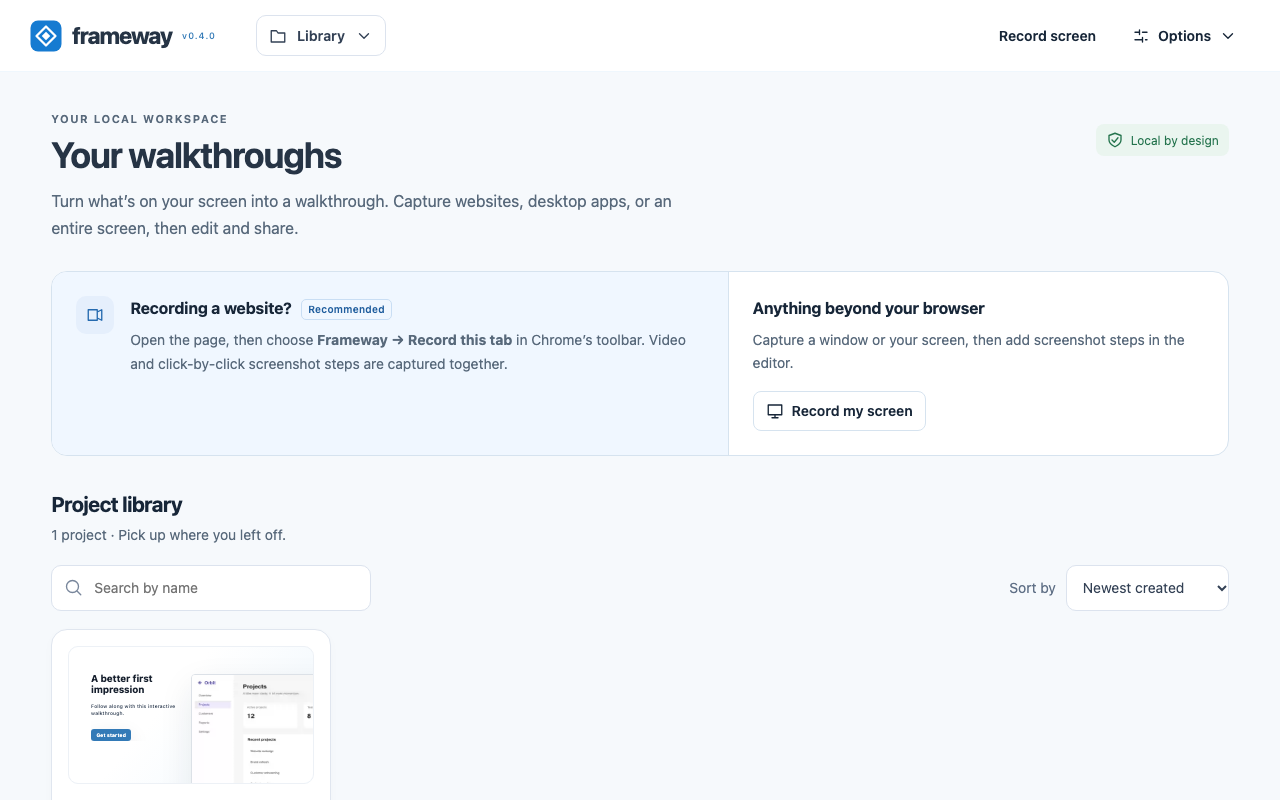
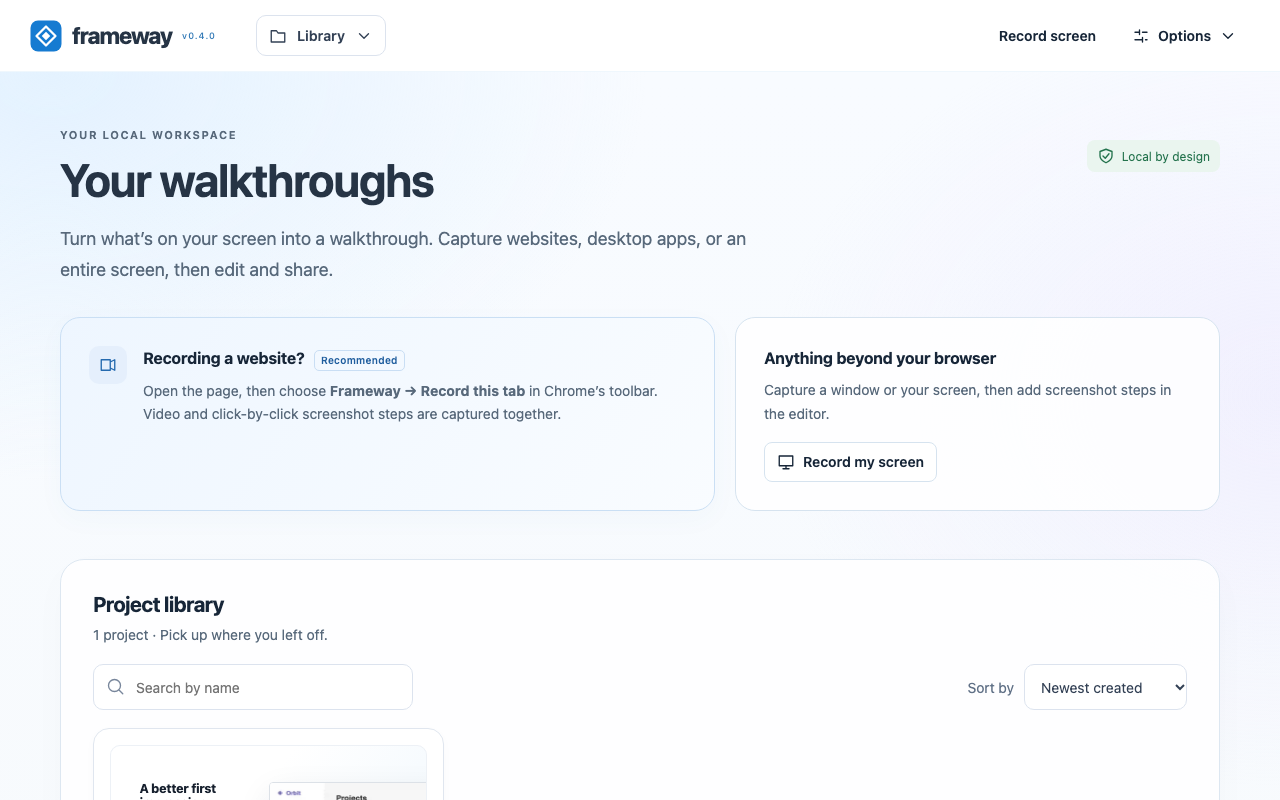
style: polish Library spacing and slide insertion controls

diff --git a/src/styles/home.css b/src/styles/home.css
@@ -190,13 +190,16 @@
 }
 
 .home-page {
-  padding: 40px clamp(18px, 4vw, 64px) 48px;
-  background: var(--ui-surface-muted);
+  padding: 56px clamp(18px, 4vw, 64px) 72px;
+  background:
+    radial-gradient(ellipse 700px 480px at 4% 0%, #dbeeffb3, transparent 85%),
+    radial-gradient(ellipse 600px 460px at 100% 14%, #e8e2ff70, transparent 85%),
+    linear-gradient(180deg, #f8fbff, #f7fafc 55%, #fff);
   text-align: left;
   color: var(--ui-text);
 }
 .home-page > * {
-  max-width: 1200px;
+  max-width: 1160px;
   margin-inline: auto;
 }
 .home-heading {
@@ -204,7 +207,7 @@
   align-items: flex-start;
   justify-content: space-between;
   gap: 24px;
-  margin-bottom: 28px;
+  margin-bottom: 32px;
 }
 .home-heading .eyebrow {
   font-size: 11px;
@@ -212,15 +215,15 @@
   color: var(--ui-muted);
 }
 .home-heading h1 {
-  font-size: clamp(28px, 3vw, 36px);
+  font-size: clamp(32px, 4vw, 46px);
   line-height: 1.2;
   letter-spacing: -1px;
-  margin: 8px 0 12px;
+  margin: 12px 0 16px;
 }
 .home-heading p {
-  max-width: 660px;
+  max-width: 720px;
   color: var(--ui-muted);
-  font-size: 16px;
+  font-size: 18px;
   line-height: 1.7;
   margin: 0;
 }
@@ -239,21 +242,23 @@
 .capture-choices {
   display: grid;
   grid-template-columns: 1.35fr 1fr;
-  border: 1px solid var(--ui-border);
-  border-radius: 16px;
-  background: var(--ui-surface);
-  overflow: hidden;
-  margin-bottom: 36px;
+  gap: 20px;
+  margin-bottom: 48px;
 }
 .capture-recommended {
   display: flex;
   gap: 16px;
-  padding: 24px;
-  background: #f0f7ff;
+  padding: 28px;
+  border: 1px solid #cadff4;
+  border-radius: 20px;
+  background: linear-gradient(125deg, #eef6ff, #f9fcff);
+  box-shadow: 0 8px 28px #3674a908;
 }
 .capture-screen {
-  padding: 24px;
-  border-left: 1px solid var(--ui-border);
+  padding: 28px;
+  border: 1px solid var(--ui-border);
+  border-radius: 20px;
+  background: #ffffffd9;
 }
 .capture-choices h2 {
   font-size: 16px;
@@ -344,8 +349,15 @@
   max-width: 600px;
   font-size: 15px;
 }
+.home-workspace {
+  padding: 32px;
+  border: 1px solid #dde7f1;
+  border-radius: 24px;
+  background: #ffffffd9;
+  box-shadow: 0 12px 40px #25354a05;
+}
 .home-start {
-  margin-top: 48px;
+  margin-top: 64px;
 }
 .quick-guide {
   padding: 0;
@@ -392,8 +404,8 @@
   margin: 0 0 12px;
 }
 .home-sharing {
-  margin-top: 32px;
-  padding-top: 32px;
+  margin-top: 56px;
+  padding-top: 48px;
   border-top: 1px solid var(--ui-border);
 }
 .sharing-grid {
@@ -438,7 +450,7 @@
   color: var(--ui-success);
 }
 .home-page .use-cases {
-  margin-top: 40px;
+  margin-top: 56px;
   padding: 0;
   text-align: left;
 }
@@ -453,9 +465,10 @@
   gap: 28px;
 }
 .home-page .use-case-grid article {
-  border: 0;
-  padding: 0;
-  background: transparent;
+  border: 1px solid #e3eaf3;
+  border-radius: 16px;
+  padding: 24px;
+  background: #f8fbff;
 }
 .home-page .use-case-grid article > svg {
   color: #337ab7;
@@ -523,9 +536,16 @@
   .home-page .use-case-grid {
     grid-template-columns: 1fr;
   }
-  .capture-screen {
-    border-left: 0;
-    border-top: 1px solid var(--ui-border);
+  .home-workspace {
+    padding: 20px 16px;
+    border-radius: 18px;
+  }
+  .home-start {
+    margin-top: 40px;
+  }
+  .home-sharing,
+  .home-page .use-cases {
+    margin-top: 40px;
   }
   .capture-recommended,
   .capture-screen {
@@ -557,5 +577,29 @@
 @media (prefers-reduced-motion: reduce) {
   .home-page .project-library-item {
     transition: none;
+  }
+}
+
+@keyframes home-arrive {
+  from {
+    opacity: 0;
+    transform: translateY(8px);
+  }
+  to {
+    opacity: 1;
+    transform: translateY(0);
+  }
+}
+@media (prefers-reduced-motion: no-preference) {
+  .home-heading,
+  .capture-choices,
+  .home-workspace {
+    animation: home-arrive 420ms ease-out both;
+  }
+  .capture-choices {
+    animation-delay: 60ms;
+  }
+  .home-workspace {
+    animation-delay: 100ms;
   }
 }

diff --git a/src/main.tsx b/src/main.tsx
@@ -906,6 +906,11 @@ function App() {
                   YOUR STORY <span>{project.steps.length}</span>
                 </div>
                 <div className="step-list">
+                  {!project.steps.some((s) => s.kind === 'title') && (
+                    <Button className="slide-add" onClick={() => void addTitle()} disabled={!!busy}>
+                      <Icon name="plus" /> Add title slide
+                    </Button>
+                  )}
                   {project.steps.map((s, i) => (
                     <div className="step-row" key={s.id}>
                       <button
@@ -947,14 +952,9 @@ function App() {
                     </div>
                   ))}
                 </div>
-                {!project.steps.some((s) => s.kind === 'title') && (
-                  <button className="sample-link" onClick={() => void addTitle()} disabled={!!busy}>
-                    ＋ Add title slide
-                  </button>
-                )}
                 {!project.steps.some((s) => s.kind === 'closing') && (
                   <Button
-                    variant="ghost"
+                    className="slide-add slide-add-closing"
                     onClick={() => {
                       const next = withClosingSlide(project);
                       update(next);

diff --git a/src/styles/editor-controls.css b/src/styles/editor-controls.css
@@ -58,3 +58,21 @@
 .editor-app .clip-pill {
   z-index: 5;
 }
+
+.editor-app .slide-add {
+  width: 100%;
+  flex-shrink: 0;
+  min-height: 38px;
+  border: 1px dashed var(--ui-border);
+  background: var(--ui-surface);
+  color: var(--ui-primary);
+  font-size: 12px;
+  font-weight: 600;
+}
+.editor-app .slide-add:hover:not(:disabled) {
+  background: var(--ui-primary-soft);
+  border-color: var(--ui-primary);
+}
+.editor-app .slide-add-closing {
+  margin-top: 16px;
+}

diff --git a/docs/VERIFICATION.md b/docs/VERIFICATION.md
@@ -85,3 +85,7 @@ GitHub workflows are configured but have not executed on GitHub yet. Repository 
 - ZIP includes 22 files, Frameway license/notices and production dependency notices, no source maps or private media. Permissions are unchanged (`activeTab`, `scripting`, `tabCapture`, `offscreen`, `storage`) with no host permissions. Packaged JavaScript was checked for eval/new Function.
 
 Remaining gates: final PR CI and merge approval, native tab/screen capture on macOS and Windows with this candidate, owner product review, final rebuild from merged main, dashboard disclosures/verification, and explicit submission/publication approval. Do not treat synthetic browser tests as verification of OS pickers or enterprise browser policies. No Store item or release has been published by this preparation pass.
+
+### Home and slide-control polish
+
+The add-title action now appears first inside the scrollable slide list, and both add-slide actions share the same dashed button style. The Library uses more spacious sections, subtle blue/lilac gradients, and a short entrance animation disabled by reduced-motion preferences. Home/library, title, and closing-slide browser workflows passed after these changes, along with formatting, lint, and a rebuilt v0.4.0 package. Desktop/mobile layouts and the reduced-motion behavior were checked; Store screenshots were refreshed.
